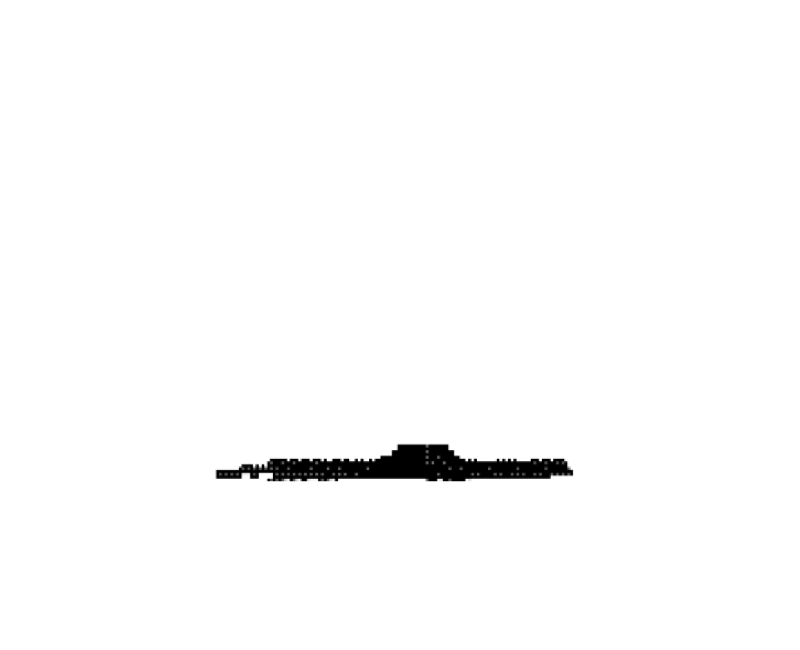
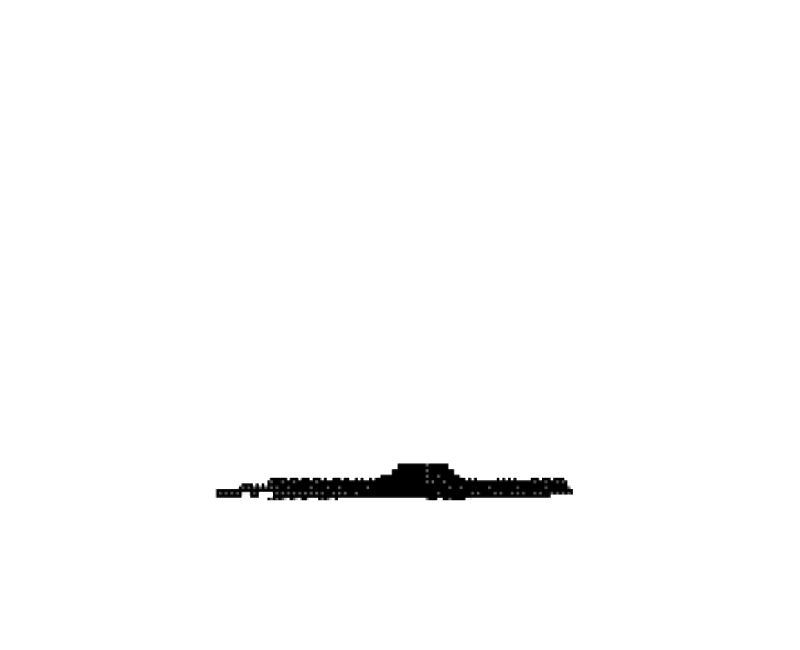
implmented hero animation and down arrow animation

Changed region(s): [[0.25, 0.6769, 0.7188, 0.7692]]

diff --git a/styles.css b/styles.css
@@ -31,8 +31,6 @@ label {
     transform: translateX(0);
 }
 
-
-
 .section-container {
     height: 100vh;
     width: 100vw;
@@ -45,6 +43,21 @@ label {
 .section-container > h2 {
     /* font-size: 32px; */
     letter-spacing: 3px;
+}
+
+.section-container {
+    animation: transitionIn 1s;
+}
+
+@keyframes transitionIn {
+    from {
+        opacity: 0;
+        transform: rotateX(-10deg);
+    }
+    to {
+        opacity: 1;
+        transform: rotateX(0);
+    }
 }
 /* .wrapper {
     padding: 150px 100px 150px 100px;
@@ -81,11 +94,44 @@ nav {
 }
 
 /* hero styles */
-.hero-container {
-    /* border: 1px solid black; */
-}
 .hero {
+    opacity: 1;
     position: absolute;
+    left: 37vw;
+    top: 20vh;
+    width: 300px;
+    height: auto;
+}
+.hero:nth-child(2){
+    opacity: 0;
+    animation-duration: 1s;
+    animation-name: treeGrow;
+    animation-iteration-count: infinite;
+    animation-direction: alternate;
+}
+.hero:nth-child(3){
+    opacity: 0;
+    animation-duration: 2s;
+    animation-name: treeGrow;
+    animation-iteration-count: infinite;
+    animation-direction: alternate;
+}
+.hero:nth-child(4){
+    opacity: 0;
+    animation-duration: 3s;
+    animation-name: treeGrow;
+    animation-iteration-count: infinite;
+    animation-direction: alternate;
+}
+@keyframes treeGrow {
+    from {
+        opacity: 0;
+        transform: translateY(0px);
+    }
+    to {
+        opacity: 1;
+        transform: translateY(0px);
+    }
 }
 
 /* home intro styles */
@@ -108,16 +154,24 @@ nav {
 .intro:nth-child(2) {
     transition-delay: 400ms;
 }
-.arrow:nth-child(1) {
-    transition-delay: 600ms;
-}
-
 .arrow {
     position: absolute;
     margin-bottom: 110px;
+    opacity: 0.9;
+    animation-duration: 1.3s;
+    animation-name: arrowDown;
+    animation-iteration-count: infinite;
+    animation-direction: normal;
 }
-.arrow:nth-child(2) {
-    display: none;
+@keyframes arrowDown {
+    from {
+        opacity: 0.9;
+        transform: translateY(0px);
+    }
+    to {
+        opacity: 0.5;
+        transform: translateY(30px);
+    }
 }
 
 

diff --git a/index.html b/index.html
@@ -32,10 +32,10 @@
         <!-- hero image -->
         <div class="hero-container">
             <!-- img animation loop -->
-            <!-- <img class="hero" src="./assets/hero/tree1.png" />
+            <img class="hero" src="./assets/hero/tree1.png" />
             <img class="hero" src="./assets/hero/tree2.png" />
             <img class="hero" src="./assets/hero/tree3.png" />
-            <img class="hero" src="./assets/hero/tree3.png" /> -->
+            <img class="hero" src="./assets/hero/tree4.png" />
         </div>
         <div class="home-container">
             <div class="home-intro">
@@ -68,7 +68,7 @@
                     <h3>RDBMS</h3>
                     <p>MongoDB, MySQL</p>
                 </div>
-                <div class="skills hidden">
+                <div class="skills hidden">rr
                     <h3>Other Technologies</h3>
                     <p>VS Code, Git, Github, NodeJs,<br /> Postman API, CLI, AWS Cloud</p>
                 </div>
